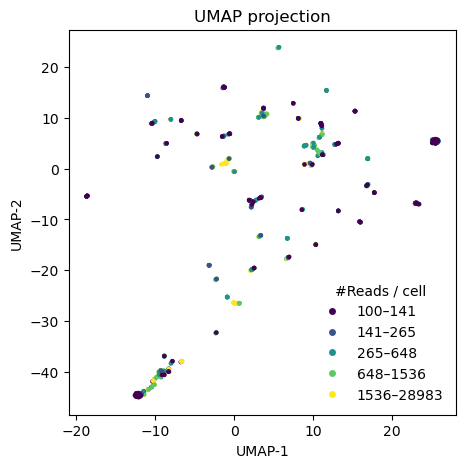
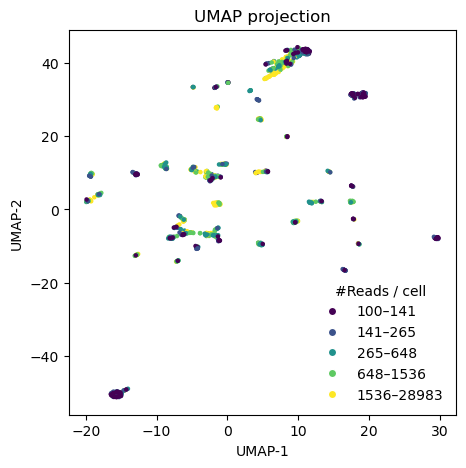
updated the paired smooth vs no smooth

diff --git a/_includes/section4.html b/_includes/section4.html
@@ -49,6 +49,7 @@
     [drop=0.90] kept 20646/20646 tiles; var_features→2064
 </p>
 <img src="results/section4/miniread10_thresdhold100_drop0.9_smooth.png" width="300" alt="origin">
+<img src="results/section4/miniread10_thresdhold100_drop0.9_nosmooth.png" width="300" alt="origin">
 
 <p>
     set the <code>threshold</code> to be <b>300</b>:<br>
@@ -64,6 +65,7 @@
     [drop=0.90] kept 20646/20646 tiles; var_features→2064
 </p>
 <img src="results/section4/miniread10_thresdhold300_drop0.9_smooth.png" width="300" alt="origin">
+<img src="results/section4/miniread10_thresdhold300_drop0.9_nosmooth.png" width="300" alt="origin">
 
 <p>
     Set the <code>threshold</code> to be <b>500</b>:<br>
@@ -79,6 +81,7 @@
     [drop=0.90] kept 20646/20646 tiles; var_features→2064
 </p>
 <img src="results/section4/miniread10_thresdhold500_drop0.9_smooth.png" width="300" alt="origin">
+<img src="results/section4/miniread10_thresdhold500_drop0.9_nosmooth.png" width="300" alt="origin">
 
 
 <h3>4.2 read another sample from pool2</h3>
@@ -101,6 +104,7 @@
     [drop=0.90] kept 20646/22780 tiles; var_features→2064
 </p>
 <img src="results/section4/miniread10_thresdhold100_drop0.9_smooth_pool2.png" width="300" alt="origin">
+<img src="results/section4/miniread10_thresdhold100_drop0.9_nosmooth_pool2.png" width="300" alt="origin">
 
 
 
@@ -118,6 +122,7 @@
     [drop=0.90] kept 20646/22780 tiles; var_features→2064
 </p>
 <img src="results/section4/miniread10_thresdhold300_drop0.9_smooth_pool2.png" width="300" alt="origin">
+<img src="results/section4/miniread10_thresdhold300_drop0.9_nosmooth_pool2.png" width="300" alt="origin">
 
 <p>
     set the <code>threshold</code> to be <b>500</b>:<br>
@@ -133,6 +138,7 @@
     [drop=0.90] kept 20646/22780 tiles; var_features→2064<br>
 </p>
 <img src="results/section4/miniread10_thresdhold500_drop0.9_smooth_pool2.png" width="300" alt="origin">
+<img src="results/section4/miniread10_thresdhold500_drop0.9_nosmooth_pool2.png" width="300" alt="origin">
 
 <h3>4.3 concatenate samples from pool1 and pool2</h3>
 <p><b>In the following experiment, we contatneate the K4 sample from pool1 and pool2
@@ -146,12 +152,13 @@
     The length of the totla reads:46052<br>
     The max of the reads:28983<br>
     [cell filter] keeping 1205 / 46052 cells (reads ≥ 100)<br>
-    [drop=0.90] kept 20646/34320 tiles; var_features→2064<br>
+    [drop=0.90] kept 34320/34320 tiles; var_features→3431<br>
     [smooth] building KNN graph (k=15) …<br>
-    [smooth] aggregating values …<br>
-    [drop=0.90] kept 20646/34320 tiles; var_features→2064
+    [smooth] aggregating values …
+
 </p>
 <img src="results/section4/miniread10_thresdhold100_drop0.9_smooth_pool1n2.png" width="300" alt="origin">
+<img src="results/section4/miniread10_thresdhold100_drop0.9_nosmooth_pool1n2.png" width="300" alt="origin">
 
 <p>
     set the <code>threshold</code> to be <b>300</b>:
@@ -161,12 +168,14 @@
     The length of the totla reads:46052<br>
     The max of the reads:28983<br>
     [cell filter]  keeping 685 / 46052 cells (reads ≥ 300)<br>
-    [drop=0.90] kept 20646/34320 tiles; var_features→2064<br>
+    [drop=0.90] kept 34320/34320 tiles; var_features→3431<br>
     [smooth] building KNN graph (k=15) …<br>
     [smooth] aggregating values …<br>
-    [drop=0.90] kept 20646/34320 tiles; var_features→2064
+    [drop=0.90] kept 34320/34320 tiles; var_features→3431
 </p>
 <img src="results/section4/miniread10_thresdhold300_drop0.9_smooth_pool1n2.png" width="300" alt="origin">
+<img src="results/section4/miniread10_thresdhold300_drop0.9_nosmooth_pool1n2.png" width="300" alt="origin">
+
 <p>
     set the <code>threshold</code> to be <b>500</b>:<br>
     The file information: ['results/tile_matrix_pool2_DJ_Hs_CM_0_K4me123_070122.bed.npz',
@@ -176,9 +185,10 @@
     The length of the total reads : 46052<br>
     The max of the reads : 28983<br>
     [cell filter] keeping 546 / 46052 cells (reads ≥ 500)<br>
-    [drop = 0.90] kept 20646 / 34320 tiles; var_features → 2064<br>
+    [drop = 0.90] kept 34320/34320 tiles; var_features→3431<br>
     [smooth] building KNN graph (k = 15)…<br>
     [smooth] aggregating values …<br>
-    [drop = 0.90] kept 20646 / 34320 tiles; var_features → 2064
+    [drop = 0.90] kept 34320/34320 tiles; var_features→3431
 </p>
 <img src="results/section4/miniread10_thresdhold500_drop0.9_smooth_pool1n2.png" width="300" alt="origin">
+<img src="results/section4/miniread10_thresdhold500_drop0.9_nosmooth_pool1n2.png" width="300" alt="origin">
